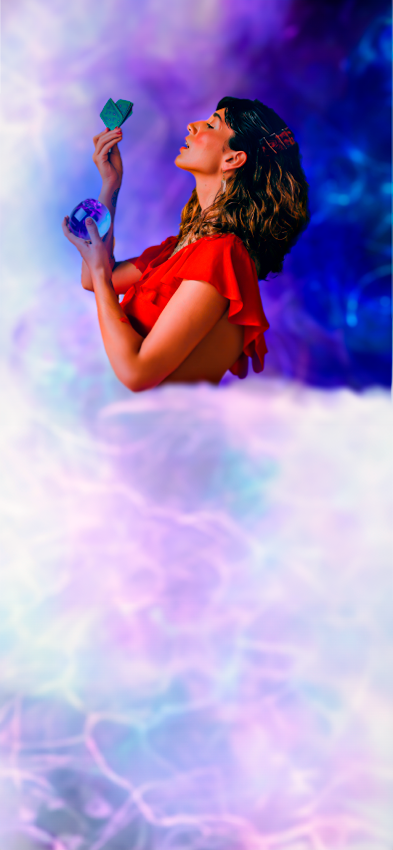
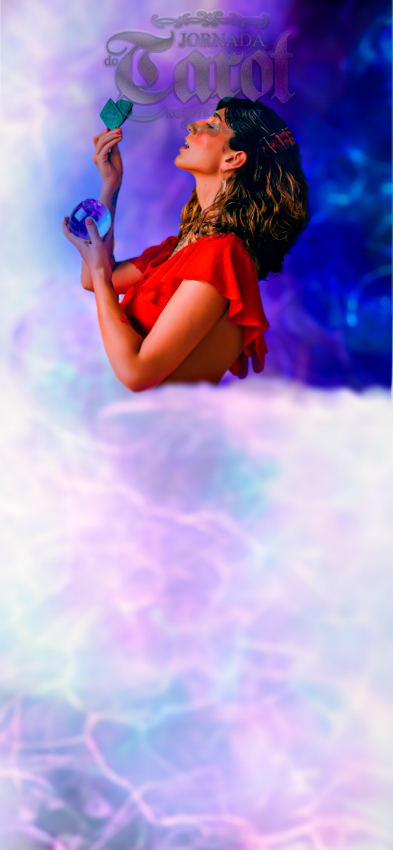
testando mobile

Changed region(s): [[0.2748, 0.0, 0.7328, 0.1835]]

diff --git a/style.css b/style.css
@@ -27,18 +27,6 @@ h1 {
   padding: 150px 0;
 }
 
-.content-section::before {
-  content: '';
-  position: absolute;
-  top: 20px;
-  left: 100px;
-  width: 350px;
-  height: 1px;
-  background-image: url('logo-b.png');
-  background-size: cover;
-  z-index: 10;
-}
-
 .custom-button {
   background-color: #000214;
   color: #fff;
@@ -68,11 +56,6 @@ h1 {
   .content-section {
     background-image: url('mobile-hero.png');
     padding-top: 660px;
-  }
-
-  .content-section::before {
-    padding-top: 200px;
-    opacity: 0.2;
   }
 }
 
